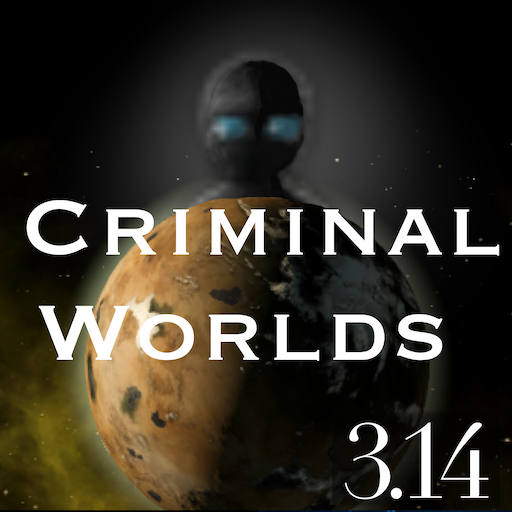
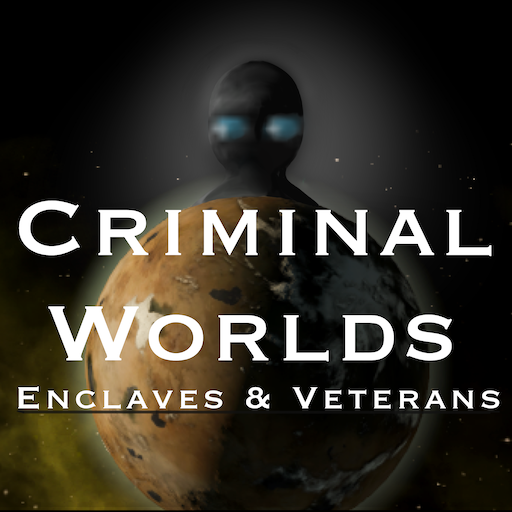
final touches

diff --git a/CriminalWorlds/Description.md b/CriminalWorlds/Description.md
@@ -1,8 +1,19 @@
-[h1] Criminal Worlds [/h1] (more to do...)
+[h1] Criminal Worlds: Enclaves & Veterans [/h1]
 
-Across Science Fiction there are numerous examples of worlds that are controlled by criminal organizations: Tatooine, for example. On these planets, scum and villany are abundant, and authorities struggle to keep the law in check. While Stellaris has a host of criminal events that try to build this atmosphere, I've always felt they lack immersion. This helps to cover those gaps by adding a whole host of events that can occur, from crime organizations building fleets to corrupting your enforcers.
+MASSIVELY EXANDED, UPDATED TO 4.2 AND BUGS FIXED
 
-This mod does make crime more punishing as there are more events that can cause problems and they are more likely. However, it also adds a number of positive benefits/events that can make having a crime world or two maybe worth considering. Afterall, a number of existing governments use the criminal organizations within them to their advantage. ([i]Maybe the local mercenaries might come in handy in this next war[/i])
+Across Science Fiction there are numerous examples of worlds that are controlled by criminal organizations; Tatooine was a particular inspiration of mine. On these planets, scum and villany are abundant, and any authorities that exist struggle to keep the law in check. While Stellaris has a host of criminal events that try to build this atmosphere, I've always felt they lack immersion. This mod helps to cover those gaps by adding a whole host of events that can occur, from crime organizations building interstellar enclaves to corrupting your enforcers.
+
+This mod does make crime more punishing as there are more events that can cause problems and they are more likely. However, it also adds a number of positive events and ways to profit from criminals that can make having a crime world or two maybe worth considering. Additionally, criminals can build enclaves which will expand and anyone can trade with. Afterall, a number of existing governments use the criminal organizations within them to their advantage. ([i]An enclave of skilled hackers could prove very useful in obtaining your enemies' tech.[/i])
+
+There's too much to discuss in this description, so here are some highlights:
+- 50+ New Events which reflect the growing influence of criminals on your planets
+- 3 Criminal Enclave Types which spawn and expand based on your interactions
+- 3 New Unlockable Veteran Classes with new leader traits and all with custom artwork
+- Criminality & Deviancy Traditions with dynamic swaps and unique benefits
+- New Jobs, Civics, Tech, Anomalies, Espionage Operations, Modifiers, etc...
+
+The AI will use the new features and be affected by these events.
 
 The mod is currently only available in English. (translators welcome)
 
@@ -10,21 +21,27 @@ The mod is currently only available in English. (translators welcome)
 
 No DLC requirements.
 
-Zero base game files harmed (Should be compatible with all other mods)
+Minimal Base Game Overrides (Should be very compatible with other mods)
+
+Completely Compatible With Existing Saves
 
 NOT achievement compatible ([i]Only UI mods that don't change features can be[/i])
 
-[h2] Features [/h2]
+A legacy version for 3.14 can be found [url=https://steamcommunity.com/sharedfiles/filedetails/?id=3591933057]here[/url].
 
-This mod introduces 30 new events (with varied changes based on government). These events are mostly new criminal events, however this mod does include a few new crime-related anomalies and special projects.
-
-These all provide an array of new planet modifiers, new jobs, new armies, and a new relic!
-
-Includes a bunch of new stories, new icons for new jobs/leader traits, and new artwork for the relic.
-
-Very few of these events are available for gestalt empires, as the flavor is much harder to create and adapt. The AI will also be affected by these events.
 
 [h2] Contact [/h2]
 
 Please notify me with any bug reports, suggestions, and/or questions. I’d love all the feedback and the easiest way to contact me is via my discord @Accorata. Feel free to message me privately or check out the "accorata-mods" channel on the [url=https://discord.gg/phVF6NXSE5]Stellaris Modding Den[/url].
 [url=https://discord.gg/bHVez2C][img]https://i.imgur.com/4Und3QN.png[/img][/url]
+
+[h2] Modding Information [/h2]
+(Including some additional information for any mod savvy people who are worried about compatibility and/or modders who wish to have their mods interact with this one.)
+
+Overrides:
+- Scripted Triggers: has_council_subclass, has_governor_subclass, has_non_council_subclass
+- Economic Categories: planet_criminals, criminal, deviant_drone, corrupt_drone
+
+Mod Interaction:
+- Sets Global Flag "criminal_worlds_active" on Game Start
+- Scripted Variable "@has_criminal_worlds" set to 1
